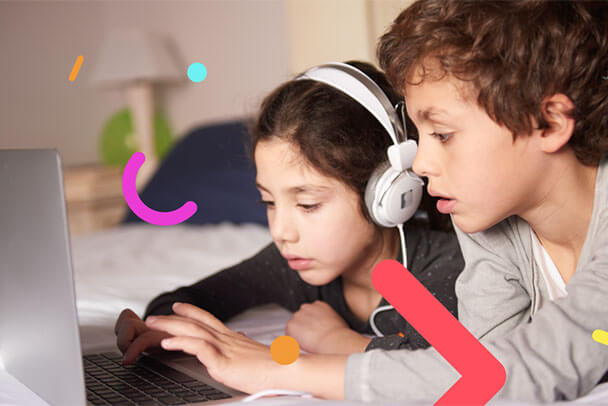
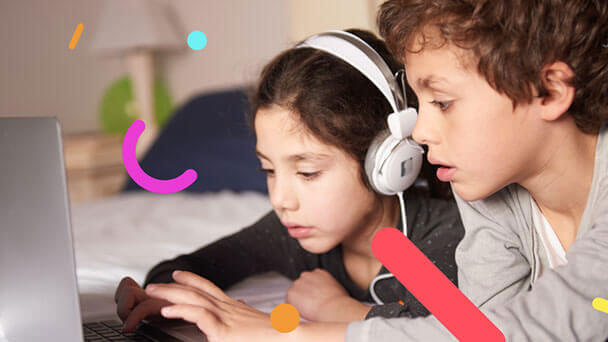
Update family privacy card image

diff --git a/content/home-2019/card_11/en-US.md b/content/home-2019/card_11/en-US.md
@@ -5,7 +5,7 @@ image: "family-privacy.jpg"
 link_url: "https://blog.mozilla.org/internetcitizen/2019/01/28/firefox-fights-for-your-familys-privacy/?utm_source=www.mozilla.org&utm_medium=referral&utm_campaign=homepage&utm_content=card"
 tag_label: "Privacy"
 size: "medium"
-aspect_ratio: "3-2"
+aspect_ratio: "16-9"
 include_highres_image: false
 desc: "By the time a child turns 18, their digital footprint will be huge. Here are a few ways to look out for your family's privacy."
 ---
